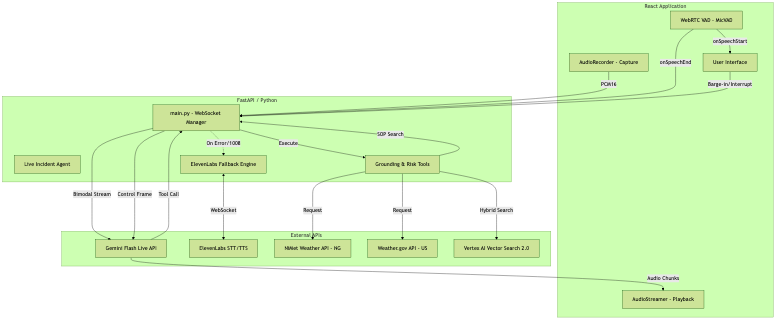
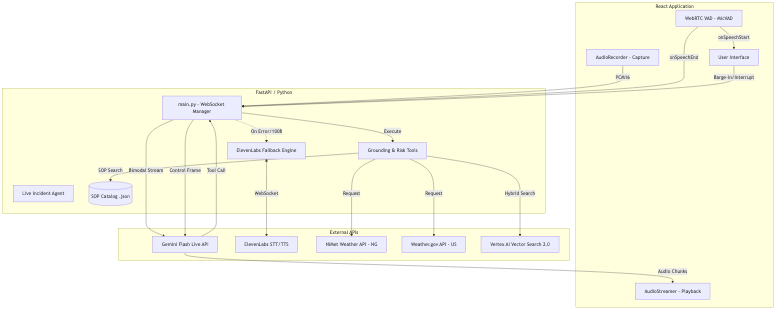
docs: address PR review feedback - update diagram, demo prompt, and GCP proof anchors

diff --git a/backend/app/grounding/vector_store.py b/backend/app/grounding/vector_store.py
@@ -8,6 +8,7 @@ from datetime import date, datetime
 from typing import Any
 
 
+# GCP_PROOF: Vertex AI Vector Search Config
 @dataclass
 class VectorStoreConfig:
     project_id: str
@@ -136,6 +137,7 @@ def load_config_from_env() -> VectorStoreConfig:
     )
 
 
+# GCP_PROOF: Vertex AI Search Clients
 def _clients():
     """Lazy import vector search SDK to avoid hard runtime failure if package is absent."""
     try:

diff --git a/backend/app/main.py b/backend/app/main.py
@@ -61,6 +61,7 @@ plugins = []
 if os.getenv("ENABLE_BASIC_GUARDRAILS", "true").lower() == "true":
     plugins.append(BasicGuardrailsPlugin())
 
+# GCP_PROOF: Gemini Live API Orchestration
 runner = Runner(
     app_name=APP_NAME,
     agent=root_agent,

diff --git a/docs/gcp_proof.md b/docs/gcp_proof.md
@@ -8,22 +8,22 @@ The following files demonstrate the automated build and deployment pipeline for 
 - **cloudbuild.yaml**:
   - **Function**: Defines the multi-stage CI/CD pipeline using Google Cloud Build.
   - **GCP Services**: Uses `cloud-builders/docker` to build containers and `cloud-sdk` to deploy to **Cloud Run**.
-  - **Locations**: See lines 1-23 for backend deployment and lines 50-61 for frontend deployment.
+  - **Anchor**: `# GCP_PROOF: Cloud Build Pipeline`
 
 - **deploy_cloud_run.sh**:
   - **Function**: The entry-point script to trigger GCP deployments from a management environment.
-  - **GCP Command**: Uses `gcloud builds submit` (line 30) to send the source to Google Cloud for remote building.
+  - **GCP Command**: Uses `gcloud builds submit` to send the source to Google Cloud.
+  - **Anchor**: `# GCP_PROOF: GCloud Run Deployment`
 
 ## 2. Proof of Google Cloud API Usage
 The following files demonstrate direct integration with Google Cloud's AI and data services.
 
 - **backend/app/grounding/vector_store.py**:
   - **Function**: Implements **Vertex AI Vector Search 2.0** (Hybrid Search).
-  - **API Calls**: 
-    - `VectorSearchServiceClient` (line 150) for collection management.
-    - `DataObjectSearchServiceClient` (line 152) for hybrid semantic/text retrieval.
-    - `gemini-embedding-001` (line 187) for automatic text embedding within the vector store.
+  - **API Proof**: Uses `VectorSearchServiceClient` and `DataObjectSearchServiceClient` for hybrid semantic/text retrieval.
+  - **Anchors**: `# GCP_PROOF: Vertex AI Vector Search Config`, `# GCP_PROOF: Vertex AI Search Clients`
 
 - **backend/app/main.py**:
   - **Function**: The core WebSocket server using the **Google ADK**.
-  - **API Interaction**: Uses `google.adk` (lines 12-14) to orchestrate **Gemini Live API** sessions, managing multi-modal streaming and tool-calling loops on GCP infrastructure.
+  - **API Interaction**: Orchestrates **Gemini Live API** sessions on GCP infrastructure.
+  - **Anchor**: `# GCP_PROOF: Gemini Live API Orchestration`

diff --git a/docs/demo_script.md b/docs/demo_script.md
@@ -64,7 +64,7 @@ This script is designed for a single-session demonstration that moves from initi
 **Narrative:** *Trigger this while the agent is midway through a long SOP list.*
 
 **User (Barge-in):** 
-> "Wait! Stop! I just identified the spill—it's coming from an industrial battery pack that fell off a trailer. The fluid is sizzling on the ground!"
+> "Wait—it's a battery! An industrial battery pack, and it's sizzling on the ground!"
 
 **Expected System Behavior:**
 - **VAD Action:** `MicVAD` detects speech start while `assistantSpeaking.current` is true.

diff --git a/docs/architecture_overview.md b/docs/architecture_overview.md
@@ -16,6 +16,7 @@ graph TD
         AGENT[Live Incident Agent]
         TOOLS[Grounding & Risk Tools]
         FALLBACK[ElevenLabs Fallback Engine]
+        SOP_CATALOG[(SOP Catalog .json)]
     end
 
     subgraph External [External APIs]
@@ -42,7 +43,7 @@ graph TD
     MAIN -->|Execute| TOOLS
     TOOLS -->|Request| NIMET
     TOOLS -->|Request| WEATHER
-    TOOLS -->|SOP Search| MAIN
+    TOOLS -->|SOP Search| SOP_CATALOG
     TOOLS -->|Hybrid Search| VSEARCH
     
     %% Fallback Logic
